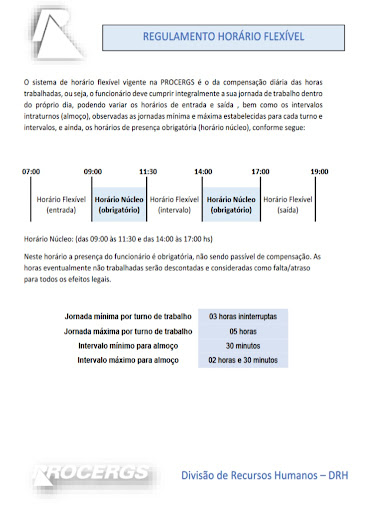
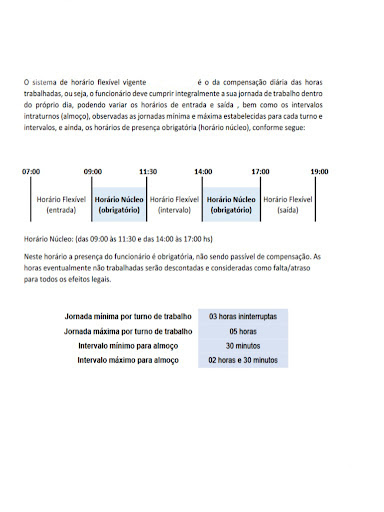
feat: adicionar coluna Diferenca Minutos no ponto original e remover coluna saldo da tabela

diff --git a/src/main/java/com/exemplo/ajusteponto/service/PdfEspelhoPontoGenerator.java b/src/main/java/com/exemplo/ajusteponto/service/PdfEspelhoPontoGenerator.java
@@ -96,8 +96,8 @@ public class PdfEspelhoPontoGenerator {
     private void adicionarTabelaBatidas(Document doc, RelatorioPonto relatorio) throws DocumentException {
         PdfPTable table = new PdfPTable(13);
         table.setWidthPercentage(100);
-        // Colunas: Data (10%), Dia (8.5%), Originais (4 x 6.5% = 26%), Sugestão (4 x 6.5% = 26%), Total (8%), Saldo (8%), Status (13.5%)
-        table.setWidths(new float[]{10.0f, 8.5f, 6.5f, 6.5f, 6.5f, 6.5f, 6.5f, 6.5f, 6.5f, 6.5f, 8.0f, 8.0f, 13.5f});
+        // Colunas: Data (9.5%), Dia (7.5%), Originais (4 x 6% + 8% Dif. Minutos = 32%), Sugestão (4 x 6.5% = 26%), Total (11%), Status (14%)
+        table.setWidths(new float[]{9.5f, 7.5f, 6.0f, 6.0f, 6.0f, 6.0f, 8.0f, 6.5f, 6.5f, 6.5f, 6.5f, 11.0f, 14.0f});
 
         // LINHA 1 DE CABEÇALHO (Agrupamento de Colunas)
         PdfPCell cData = new PdfPCell(new Phrase("Data", FONT_TH));
@@ -117,7 +117,7 @@ public class PdfEspelhoPontoGenerator {
         table.addCell(cDia);
 
         PdfPCell cGrupoOrig = new PdfPCell(new Phrase("REGISTRO INFORMADO (ORIGINAL)", FONT_TH));
-        cGrupoOrig.setColspan(4);
+        cGrupoOrig.setColspan(5);
         cGrupoOrig.setBackgroundColor(CINZA_SLATE_ORIGINAL);
         cGrupoOrig.setHorizontalAlignment(Element.ALIGN_CENTER);
         cGrupoOrig.setVerticalAlignment(Element.ALIGN_MIDDLE);
@@ -140,14 +140,6 @@ public class PdfEspelhoPontoGenerator {
         cTotal.setPadding(3);
         table.addCell(cTotal);
 
-        PdfPCell cSaldo = new PdfPCell(new Phrase("Saldo", FONT_TH));
-        cSaldo.setRowspan(2);
-        cSaldo.setBackgroundColor(AZUL_INSTITUCIONAL_ESCURO);
-        cSaldo.setHorizontalAlignment(Element.ALIGN_CENTER);
-        cSaldo.setVerticalAlignment(Element.ALIGN_MIDDLE);
-        cSaldo.setPadding(3);
-        table.addCell(cSaldo);
-
         PdfPCell cStatus = new PdfPCell(new Phrase("Status", FONT_TH));
         cStatus.setRowspan(2);
         cStatus.setBackgroundColor(AZUL_INSTITUCIONAL_ESCURO);
@@ -156,8 +148,8 @@ public class PdfEspelhoPontoGenerator {
         cStatus.setPadding(3);
         table.addCell(cStatus);
 
-        // LINHA 2 DE CABEÇALHO (Sub-colunas de Horários)
-        String[] subOrig = {"Ent 1", "Saí 1", "Ent 2", "Saí 2"};
+        // LINHA 2 DE CABEÇALHO (Sub-colunas)
+        String[] subOrig = {"Ent 1", "Saí 1", "Ent 2", "Saí 2", "Dif. Minutos"};
         for (String sub : subOrig) {
             PdfPCell c = new PdfPCell(new Phrase(sub, FONT_SUB_TH));
             c.setBackgroundColor(CINZA_SLATE_SUB_ORIGINAL);
@@ -186,11 +178,12 @@ public class PdfEspelhoPontoGenerator {
             adicionarCelulaDado(table, dia.getDataFormatada(), FONT_TD_NORMAL, corFundo, Element.ALIGN_CENTER);
             adicionarCelulaDado(table, dia.getDiaSemanaCurto(), FONT_TD_NORMAL, corFundo, Element.ALIGN_CENTER);
 
-            // 4 Colunas dos registros originais
+            // 5 Colunas dos registros originais com Diferença em Minutos
             adicionarCelulaOriginal(table, dia.getEntrada1Original(), corFundoOrig);
             adicionarCelulaOriginal(table, dia.getSaida1Original(), corFundoOrig);
             adicionarCelulaOriginal(table, dia.getEntrada2Original(), corFundoOrig);
             adicionarCelulaOriginal(table, dia.getSaida2Original(), corFundoOrig);
+            adicionarCelulaDiferencaMinutos(table, dia, corFundoOrig);
 
             // 4 Colunas da sugestão ajustada
             adicionarCelulaBatida(table, dia.getEntrada1(), corFundo);
@@ -198,9 +191,8 @@ public class PdfEspelhoPontoGenerator {
             adicionarCelulaBatida(table, dia.getEntrada2(), corFundo);
             adicionarCelulaBatida(table, dia.getSaida2(), corFundo);
 
-            // Total, Saldo e Status
+            // Total e Status (Coluna Saldo removida da tabela)
             adicionarCelulaDado(table, dia.getTotalTrabalhadoFormatado(), FONT_TD_NORMAL, corFundo, Element.ALIGN_CENTER);
-            adicionarCelulaDado(table, dia.getSaldoDiaFormatado(), FONT_TD_NORMAL, corFundo, Element.ALIGN_CENTER);
 
             Font fontStatus = "AJUSTADO".equalsIgnoreCase(dia.getStatus()) ? FONT_TD_ALTERADO : FONT_TD_NORMAL;
             adicionarCelulaDado(table, dia.getStatus(), fontStatus, corFundo, Element.ALIGN_CENTER);
@@ -212,12 +204,29 @@ public class PdfEspelhoPontoGenerator {
 
         Paragraph legenda = new Paragraph(
                 "* REGISTRO INFORMADO (ORIGINAL): Batidas originais submetidas pelo colaborador (--:-- indica ausência de marcação).\n" +
+                "* DIFERENÇA MINUTOS: Minutos que sobraram (+) ou faltaram (-) no dia informado em relação à jornada diária padrão de 8h (480 min).\n" +
                 "* SUGESTÃO DE REGULARIZAÇÃO (8H): Horários ajustados para cumprimento estrito de 8h diárias (sem horas extras). " +
                 "Batidas alteradas/incluídas destacadas em NEGRITO e fundo azul.",
                 FONT_RODAPE);
         legenda.setSpacingBefore(4);
         legenda.setSpacingAfter(8);
         doc.add(legenda);
+    }
+
+    private void adicionarCelulaDiferencaMinutos(PdfPTable table, DiaPonto dia, Color fundo) {
+        String texto = dia.getDiferencaMinutosOriginalFormatado();
+        Integer diff = dia.getDiferencaMinutosOriginal();
+
+        Font font;
+        if (diff == null || diff == 0 || dia.isFimDeSemana()) {
+            font = FONT_TD_ORIGINAL;
+        } else if (diff > 0) {
+            font = new Font(Font.HELVETICA, 7f, Font.BOLD, new Color(30, 64, 175));
+        } else {
+            font = new Font(Font.HELVETICA, 7f, Font.BOLD, new Color(185, 28, 28));
+        }
+
+        adicionarCelulaDado(table, texto, font, fundo, Element.ALIGN_CENTER);
     }
 
     private void adicionarCelulaOriginal(PdfPTable table, String hora, Color fundo) {

diff --git a/src/main/java/com/exemplo/ajusteponto/model/DiaPonto.java b/src/main/java/com/exemplo/ajusteponto/model/DiaPonto.java
@@ -21,6 +21,7 @@ public class DiaPonto {
     private String saida1Original;
     private String entrada2Original;
     private String saida2Original;
+    private Integer diferencaMinutosOriginal; // Minutos que sobraram (+) ou faltaram (-) em relação a 8h (480min)
 
     // Registros ajustados/sugeridos pelo agente para cumprir o regulamento
     private RegistroBatida entrada1;
@@ -47,7 +48,43 @@ public class DiaPonto {
         this.entrada2Original = (entrada2 != null && entrada2.getHorario() != null) ? entrada2.formatado() : "--:--";
         this.saida2Original = (saida2 != null && saida2.getHorario() != null) ? saida2.formatado() : "--:--";
 
+        calcularDiferencaOriginal(entrada1, saida1, entrada2, saida2);
         calcularTotais();
+    }
+
+    public void calcularDiferencaOriginal(RegistroBatida eb1, RegistroBatida sb1, RegistroBatida eb2, RegistroBatida sb2) {
+        if (isFimDeSemana()) {
+            this.diferencaMinutosOriginal = 0;
+            return;
+        }
+
+        java.time.LocalTime hE1 = eb1 != null ? eb1.getHorario() : null;
+        java.time.LocalTime hS1 = sb1 != null ? sb1.getHorario() : null;
+        java.time.LocalTime hE2 = eb2 != null ? eb2.getHorario() : null;
+        java.time.LocalTime hS2 = sb2 != null ? sb2.getHorario() : null;
+
+        if (hE1 == null && hS1 == null && hE2 == null && hS2 == null) {
+            this.diferencaMinutosOriginal = -480;
+            return;
+        }
+
+        long minutosTrabalhados = 0;
+
+        if (hE1 != null && hS1 != null) {
+            minutosTrabalhados += Duration.between(hE1, hS1).toMinutes();
+        }
+        if (hE2 != null && hS2 != null) {
+            minutosTrabalhados += Duration.between(hE2, hS2).toMinutes();
+        }
+
+        // Se informou apenas 2 batidas (início e fim) sem intervalo de almoço explícito
+        if (hE1 != null && hS2 != null && hS1 == null && hE2 == null) {
+            long totalBruto = Duration.between(hE1, hS2).toMinutes();
+            // Desconta 60 minutos de almoço padrão
+            minutosTrabalhados = Math.max(0, totalBruto - 60);
+        }
+
+        this.diferencaMinutosOriginal = (int) (minutosTrabalhados - 480);
     }
 
     public void calcularTotais() {
@@ -228,6 +265,26 @@ public class DiaPonto {
                 saida1 != null ? saida1.formatado() : "--:--",
                 entrada2 != null ? entrada2.formatado() : "--:--",
                 saida2 != null ? saida2.formatado() : "--:--");
+    }
+
+    public Integer getDiferencaMinutosOriginal() {
+        return diferencaMinutosOriginal;
+    }
+
+    public void setDiferencaMinutosOriginal(Integer diferencaMinutosOriginal) {
+        this.diferencaMinutosOriginal = diferencaMinutosOriginal;
+    }
+
+    public String getDiferencaMinutosOriginalFormatado() {
+        if (isFimDeSemana()) return "-";
+        if (diferencaMinutosOriginal == null) return "0 min";
+        if (diferencaMinutosOriginal > 0) {
+            return "+" + diferencaMinutosOriginal + " min";
+        } else if (diferencaMinutosOriginal < 0) {
+            return diferencaMinutosOriginal + " min";
+        } else {
+            return "0 min";
+        }
     }
 
     public String getDiaSemanaCurto() {

diff --git a/src/test/java/com/exemplo/ajusteponto/RegulamentoPontoTest.java b/src/test/java/com/exemplo/ajusteponto/RegulamentoPontoTest.java
@@ -33,27 +33,30 @@ public class RegulamentoPontoTest {
         // Dia 1: Faltou saída 2 -> ajustada para 17:00 (4h + 4h = 8h00)
         DiaPonto d1 = relatorio.getDias().get(0);
         Assertions.assertEquals("08:00", d1.getTotalTrabalhadoFormatado(), "Dia 1 deve ter exatamente 8h00");
-        Assertions.assertEquals("00:00", d1.getSaldoDiaFormatado(), "Saldo do Dia 1 deve ser 00:00");
         Assertions.assertEquals("17:00", d1.getSaida2().formatado());
         Assertions.assertTrue(d1.getSaida2().isFoiAlterado(), "Saída do dia 1 deve estar em negrito");
         Assertions.assertEquals("08:00", d1.getEntrada1Original(), "Entrada 1 original deve ser 08:00");
         Assertions.assertEquals("--:--", d1.getSaida2Original(), "Saída 2 original ausente deve ser --:--");
+        Assertions.assertEquals(Integer.valueOf(-240), d1.getDiferencaMinutosOriginal(), "Faltaram 240 minutos no dia 1");
+        Assertions.assertEquals("-240 min", d1.getDiferencaMinutosOriginalFormatado());
 
         // Dia 2: Teve 1h30 a mais (18:30) -> Saída 2 DEVE ser alterada para 17:00 para fechar exatamente 8h00
         DiaPonto d2 = relatorio.getDias().get(1);
         Assertions.assertEquals("08:00", d2.getTotalTrabalhadoFormatado(), "Dia 2 NÃO pode ter horas extras; deve fechar exatamente 8h00");
-        Assertions.assertEquals("00:00", d2.getSaldoDiaFormatado(), "Saldo do Dia 2 deve ser rigorosamente 00:00");
         Assertions.assertEquals("17:00", d2.getSaida2().formatado(), "Saída 2 deve ter sido reduzida para 17:00");
         Assertions.assertTrue(d2.getSaida2().isFoiAlterado(), "Saída do dia 2 alterada deve estar marcada para negrito");
         Assertions.assertEquals("18:30", d2.getSaida2Original(), "Saída 2 original informada deve ser 18:30");
+        Assertions.assertEquals(Integer.valueOf(90), d2.getDiferencaMinutosOriginal(), "Sobraram 90 minutos no dia 2");
+        Assertions.assertEquals("+90 min", d2.getDiferencaMinutosOriginalFormatado());
 
         // Dia 3: Entrada 08:30 às 12:00 (3h30). Para fechar 8h00, o 2º turno deve ser de 4h30 (13:00 às 17:30)
         DiaPonto d3 = relatorio.getDias().get(2);
         Assertions.assertEquals("08:00", d3.getTotalTrabalhadoFormatado(), "Dia 3 deve fechar exatamente 8h00");
-        Assertions.assertEquals("00:00", d3.getSaldoDiaFormatado(), "Saldo do Dia 3 deve ser 00:00");
         Assertions.assertEquals("17:30", d3.getSaida2().formatado(), "Saída 2 deve ser estendida para 17:30 para fechar 8h00");
         Assertions.assertTrue(d3.getSaida2().isFoiAlterado(), "Saída do dia 3 alterada deve estar marcada para negrito");
         Assertions.assertEquals("16:30", d3.getSaida2Original(), "Saída 2 original informada deve ser 16:30");
+        Assertions.assertEquals(Integer.valueOf(-60), d3.getDiferencaMinutosOriginal(), "Faltaram 60 minutos no dia 3");
+        Assertions.assertEquals("-60 min", d3.getDiferencaMinutosOriginalFormatado());
 
         // Saldo total do período DEVE ser exatamente 00:00 (sem horas extras)
         Assertions.assertEquals("24:00", relatorio.getTotalTrabalhadoFormatado());

diff --git a/src/main/java/com/exemplo/ajusteponto/AjusteDePontoAgent.java b/src/main/java/com/exemplo/ajusteponto/AjusteDePontoAgent.java
@@ -46,10 +46,11 @@ public class AjusteDePontoAgent {
                        - Uma mensagem clara confirmando que todos os dias foram ajustados para fechar rigorosamente 8h00 de jornada (sem horas extras).
                        - Uma tabela bem formatada exibindo para cada dia:
                          * Data e Dia da Semana
-                         * **Registros Originais Informados** (as batidas submetidas pelo colaborador, ou --:--)
-                         * **Sugestão de Regularização (8h)**, destacando em **NEGRITO** qualquer batida alterada ou inserida
-                         * Total Trabalhado (08:00) e Saldo (00:00)
+                         * **Registros Originais Informados**: Entrada 1, Saída 1, Entrada 2, Saída 2 e a coluna **Diferença Minutos** (indicando quantos minutos sobraram com + ou faltaram com - no dia)
+                         * **Sugestão de Regularização (8h)**: Entrada 1, Saída 1, Entrada 2, Saída 2, destacando em **NEGRITO** qualquer batida alterada ou inserida
+                         * Total Trabalhado (08:00)
                          * Status (REGULAR ou AJUSTADO)
+                         *(Nota: Não inclua coluna de Saldo na tabela diária).*
                        - O resumo confirmando: Total Trabalhado = Total Previsto (Saldo 00:00).
                        - O link para download direto do PDF gerado (utilize o endereço exato do campo 'downloadUrl' retornado pela ferramenta, criando um link markdown como: [📥 Baixar Espelho de Ponto em PDF](URL)).
                     3. Seja cordial, preciso e profissional, mantendo o padrão corporativo de atendimento.

diff --git a/src/main/java/com/exemplo/ajusteponto/PontoTools.java b/src/main/java/com/exemplo/ajusteponto/PontoTools.java
@@ -46,8 +46,11 @@ public class PontoTools {
             orig.put("saida1", dia.getSaida1Original());
             orig.put("entrada2", dia.getEntrada2Original());
             orig.put("saida2", dia.getSaida2Original());
+            orig.put("diferencaMinutos", dia.getDiferencaMinutosOriginalFormatado());
+            orig.put("diferencaMinutosValor", String.valueOf(dia.getDiferencaMinutosOriginal()));
             orig.put("formatado", dia.getOriginalFormatado());
             mDia.put("original", orig);
+            mDia.put("diferencaMinutosOriginal", dia.getDiferencaMinutosOriginalFormatado());
 
             // Sugestão de batidas ajustadas para 8h estritas
             Map<String, Object> sug = new LinkedHashMap<>();

diff --git a/skills/ajuste-de-ponto/SKILL.md b/skills/ajuste-de-ponto/SKILL.md
@@ -62,9 +62,9 @@ O arquivo PDF é focado exclusivamente nos dados de auditoria e ajuste de ponto,
 1. **Tabela Comparativa de Registros**:
    - Cabeçalho em dois níveis com agrupamento claro:
      * `Data` e `Dia` da semana.
-     * **REGISTRO INFORMADO (ORIGINAL)**: 4 colunas (`Ent 1`, `Saí 1`, `Ent 2`, `Saí 2`) exibindo exatamente o que o funcionário registrou (ou `--:--` quando ausente).
+     * **REGISTRO INFORMADO (ORIGINAL)**: 5 colunas (`Ent 1`, `Saí 1`, `Ent 2`, `Saí 2` e **`Diferença Minutos`** indicando quantos minutos sobraram com sinal de + ou faltaram com sinal de - em relação a 8h/480 min).
      * **SUGESTÃO DE REGULARIZAÇÃO (8H)**: 4 colunas (`Ent 1`, `Saí 1`, `Ent 2`, `Saí 2`) exibindo a proposta de ajuste estrito em 8h diárias, com **todas as batidas alteradas ou incluídas destacadas em NEGRITO e fundo azul suave**.
-     * `Total Trabalhado` (**08:00**), `Saldo do Dia` (**00:00**) e `Status` (`REGULAR` ou `AJUSTADO`).
+     * `Total Trabalhado` (**08:00**) e `Status` (`REGULAR` ou `AJUSTADO`). Coluna de saldo removida da tabela.
 2. **Legenda**:
    - Descrição sucinta dos registros originais e das alterações em negrito.
 3. **Quadro Resumo**:
